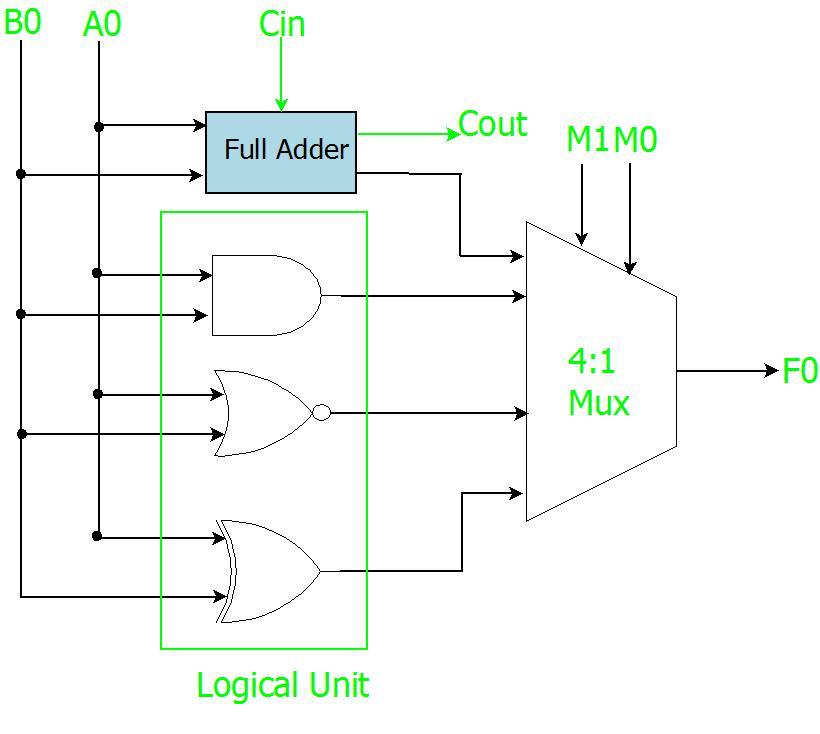
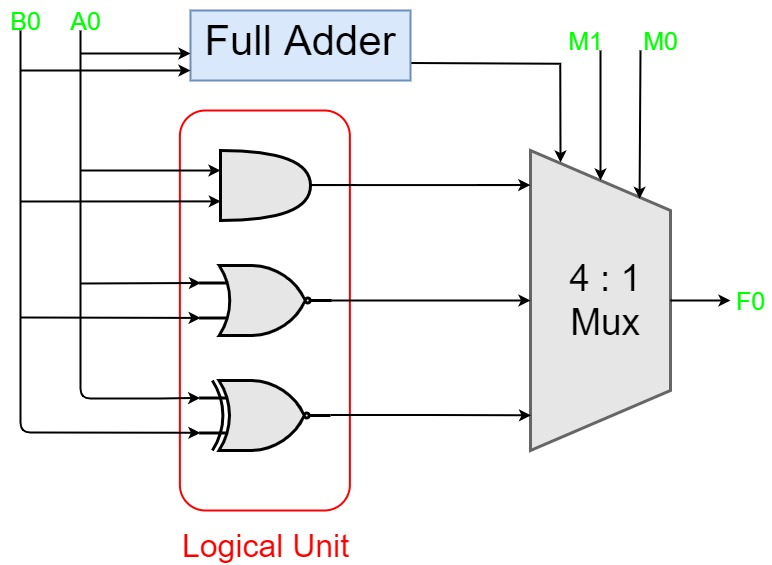
Fix plagiarism in 'ALU' page
* The text which was plagiarised is changed
* New images have been replaced by plagiarised images

Changed region(s): [[0.0, 0.0, 1.0, 1.0], [0.5596, 0.6619, 0.6528, 0.692], [0.715, 0.0602, 0.7772, 0.0903]]

diff --git a/docs/alu.md b/docs/alu.md
@@ -20,12 +20,12 @@ nav_order: 9
 
 
 ## Introduction
-An arithmetic logic unit (ALU) is a digital circuit used to perform arithmetic and logic operations. It represents the fundamental building block of the central processing unit (CPU) of a computer. Modern CPUs contain very powerful and complex ALUs. In addition to ALUs, modern CPUs contain a control unit (CU).
+The ALU(Arithmetic Logic Unit) is a Digital-Circuit which can be used to perform arithmetic, and logical operations. The ALU is a major component of the CPU(Central Processing Unit) of a computer. A modern CPU contains a very powerful ALU which are quite complex. In addition to a ALU, a modern CPU contains a Control-Unit(CU).
 
-The purpose of the ALU is to perform mathematical operations such as addition, subtraction, multiplication and division. Additionally, the ALU processes basic logical operations like AND/OR calculations. Also known as the arithmetic logic unit, it serves as the computational hub of the Central Processing Unit (CPU) for a computer system
+The use of ALU is to do mathematical operations (addition, subtraction, multiplication and division) , and basic logical operations (AND/OR calculations). The ALU is the computational hub for CPU of a computer.
 
 ## In Detail
-So with the above building blocks i.e. half adder and full adder discussed in Combinational Analysis, lets construct a simple ALU that performs a arithmetic operation (1 bit addition)and does 3 logical operations namely AND, NOR and XOR as shown below. The multiplexer selects only one operation at a time. The operation selected depends on the selection lines of the multiplexer as shown in the truth table.
+Now that we know about half adder and full adder discussed in Combinational Analysis, lets try to construct a simple ALU which performs a arithmetic operation(1 bit addition), and also does three logical operations- AND, XOR, and NOR as shown below. There is only one operation selected at a time by the multiplexer. The operation which is selected depends on the multiplexer's selection lines, as displayed in the below truth table.
 
 <div style="text-align:center" ><img src="../assets/images/1bitALU.jpg" /></div>
 
@@ -40,20 +40,20 @@ Output = Operation**
 |1	|1	|XOR|
 
 
-Now we can take up the 1 bit ALU as block and construct a 4 bit ALU, which performs all the functions of the 1 bit ALU on the 4 bit inputs. Thus a single building block can be constructed and used recursively. The inputs A and B are four bits and the output is 4 bit as well. Figure below illustrates it:
+We can now construct a 4-bit ALU by taking the 1-bit ALU as a block, this will perform the tasks of a 1-bit ALU on 4-bit inputs. Hence, a single block can be constructed, and also used recursively. The inputs 'A' and 'B' are of 4-bits and the output as well is of 4-bit. The below Figure illustrates it:
 
 <div style="text-align:center" ><img src="../assets/images/360px-4BITALU.jpg" /></div>
 
-There are a few important takeaways here:
+There are some important points to be noted here:
 * The selection lines MO and M1 select the function ALU performs. These selection lines combined with the input arguments and desired functions a Instruction Set can be formed.
 * These Instructions can used to create meaningful programs. Since these are required to be easily available they can be stored on ROM unit.
-* The input arguments A and B are often stored in Internal Registers. These along with other special purpose register form the registers of the microcontroller.
+* The input arguments 'A' and 'B' are often stored in Internal Registers. These along with other special purpose register form the registers of the microcontroller.
 * ROM memories are slower in speed, hence an intermediate high speed RAM is often used.
 * All the critical timings, decoding of the instructions are often grouped together in seperate control and timings unit'
 * If a Micro controller would be constructed only from ALU, RAM, ROM there would not be any external interface. Hence we have Input/Output IO ports.
 * Additional features such as 'Interrupts, communication protocols, EEPROM, Timers/Counters, Debug interfaces etc are incorporated to make a controller complete.
 
-In above discussion we might have left out intricate details involved in a ALU, CPU design. But the aim was to understand ALU/CPU at a deeper level.
+In the above discussion, we may have left some intricate(complex) details involved in ALU, and CPU design. But the goal was to understand ALU or CPU at a deeper level.
 
 
 {% include disqus.html %}
